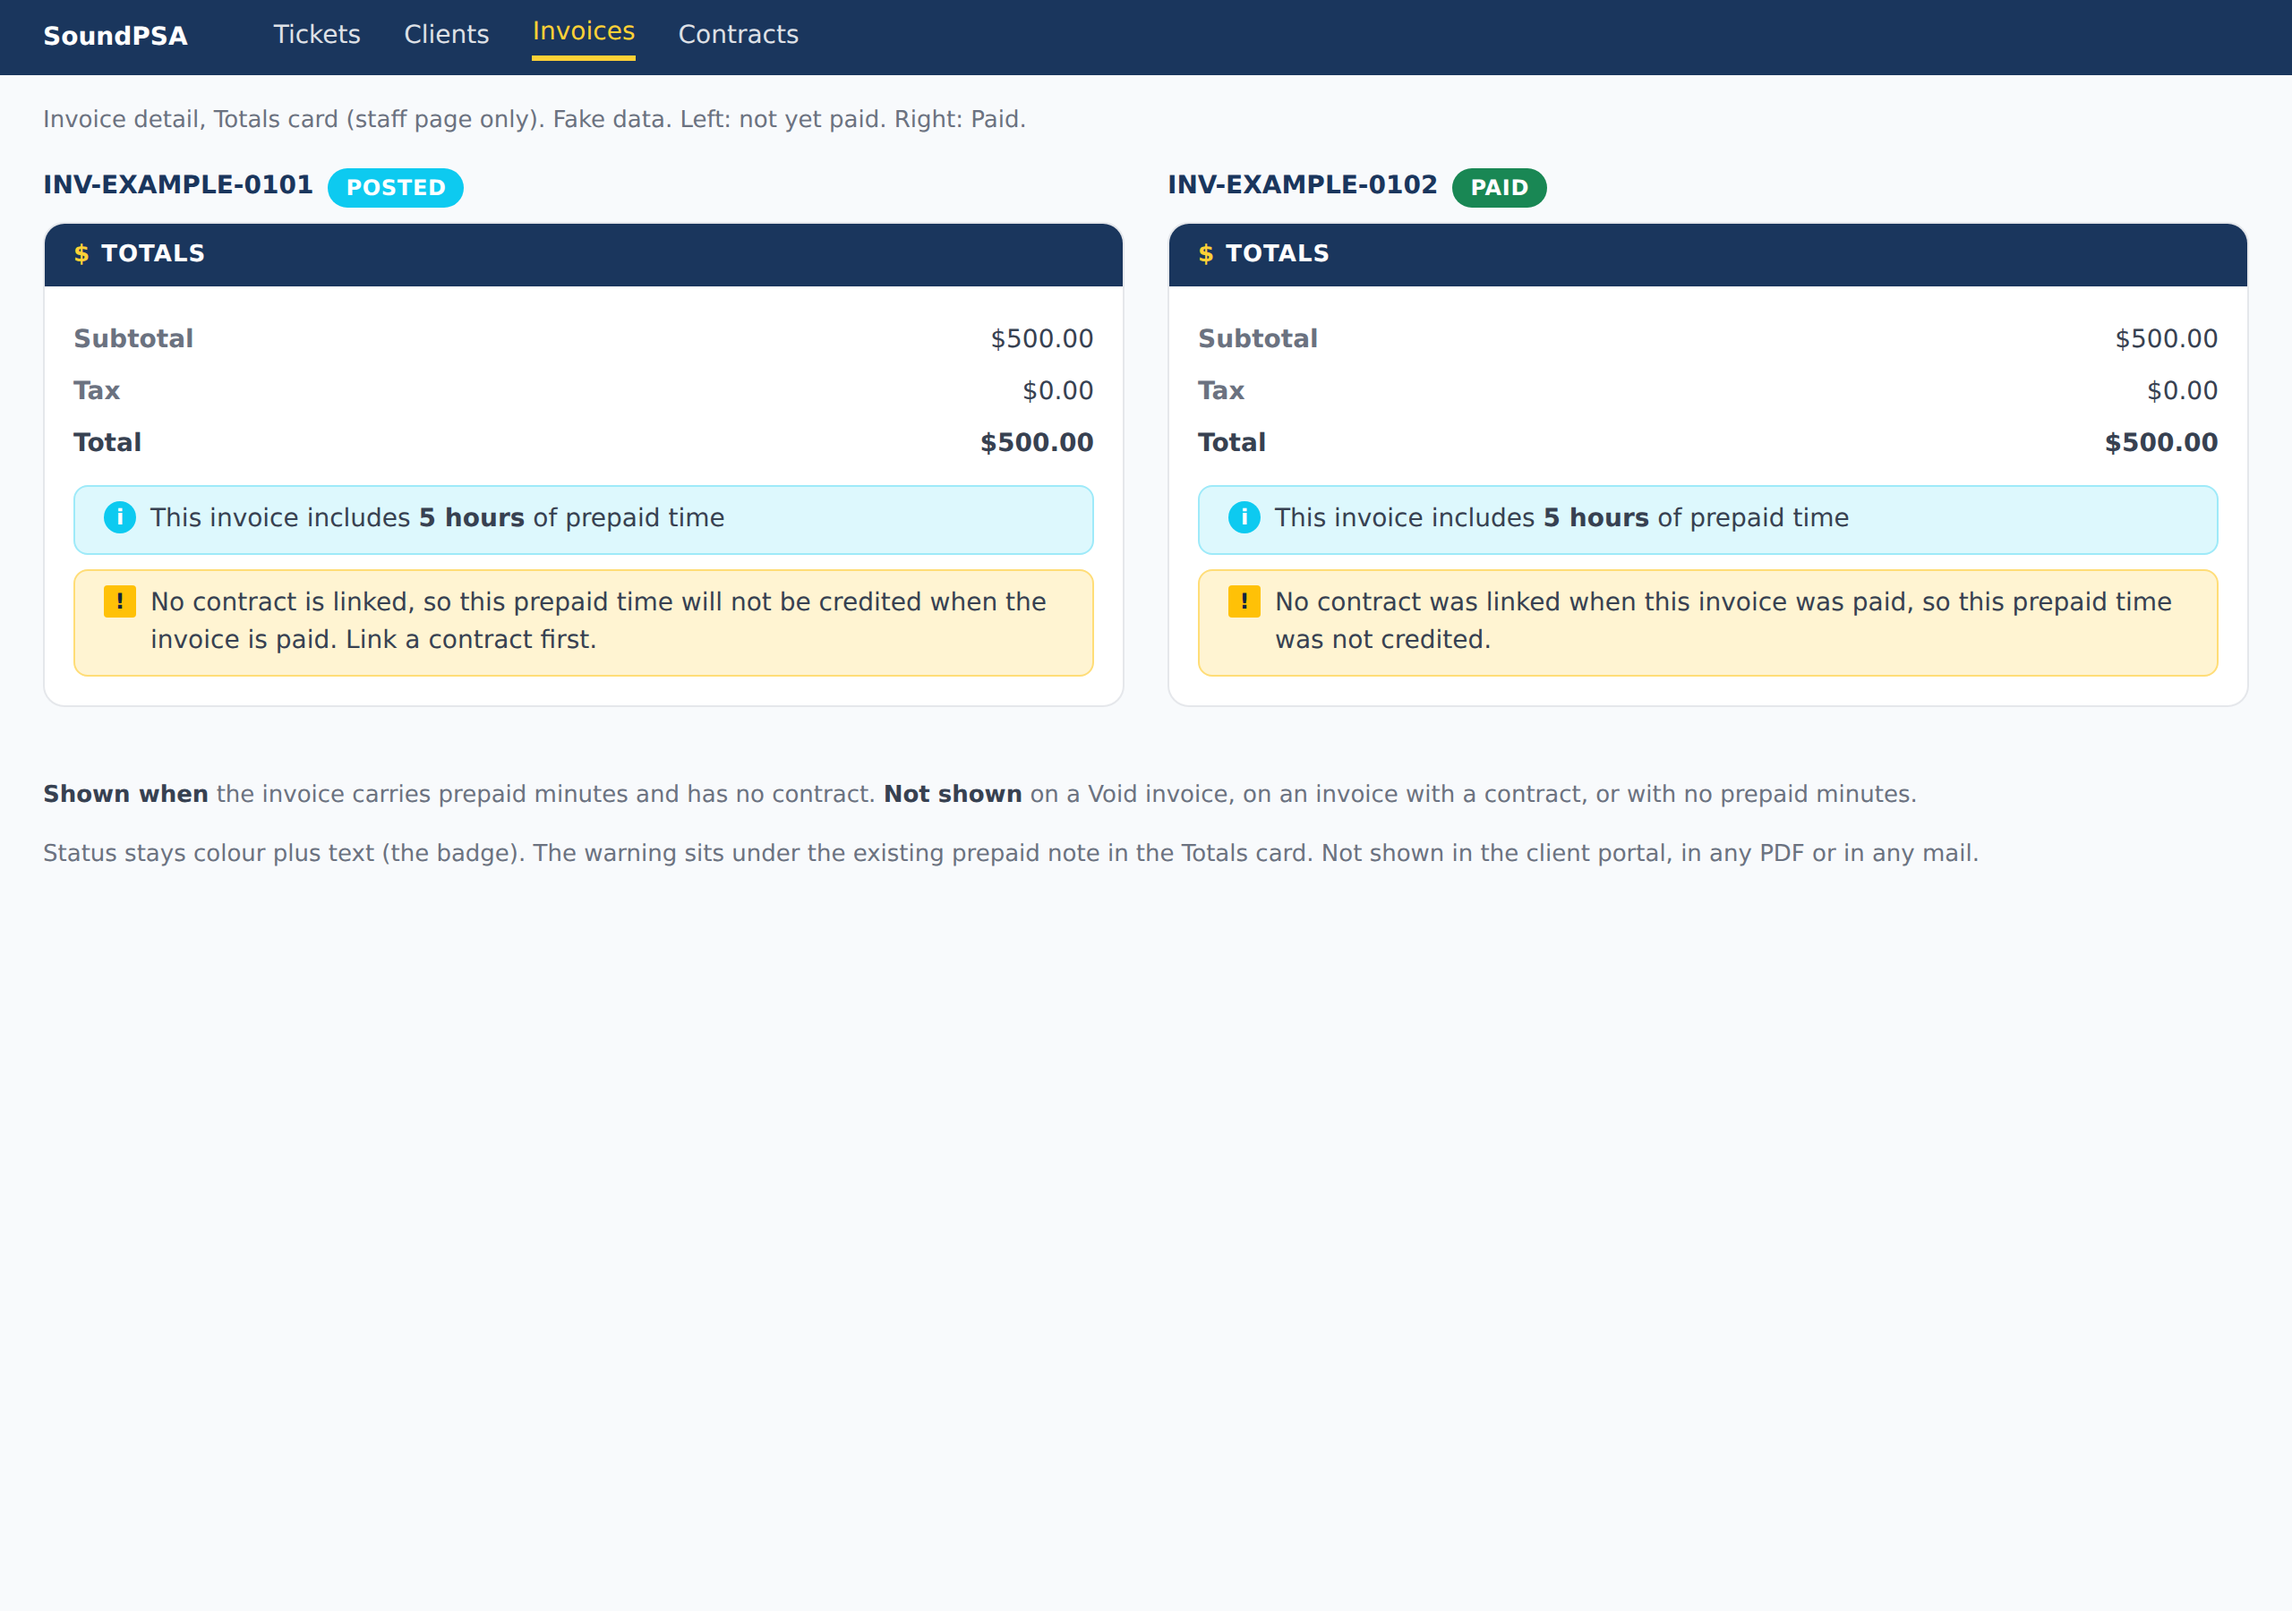
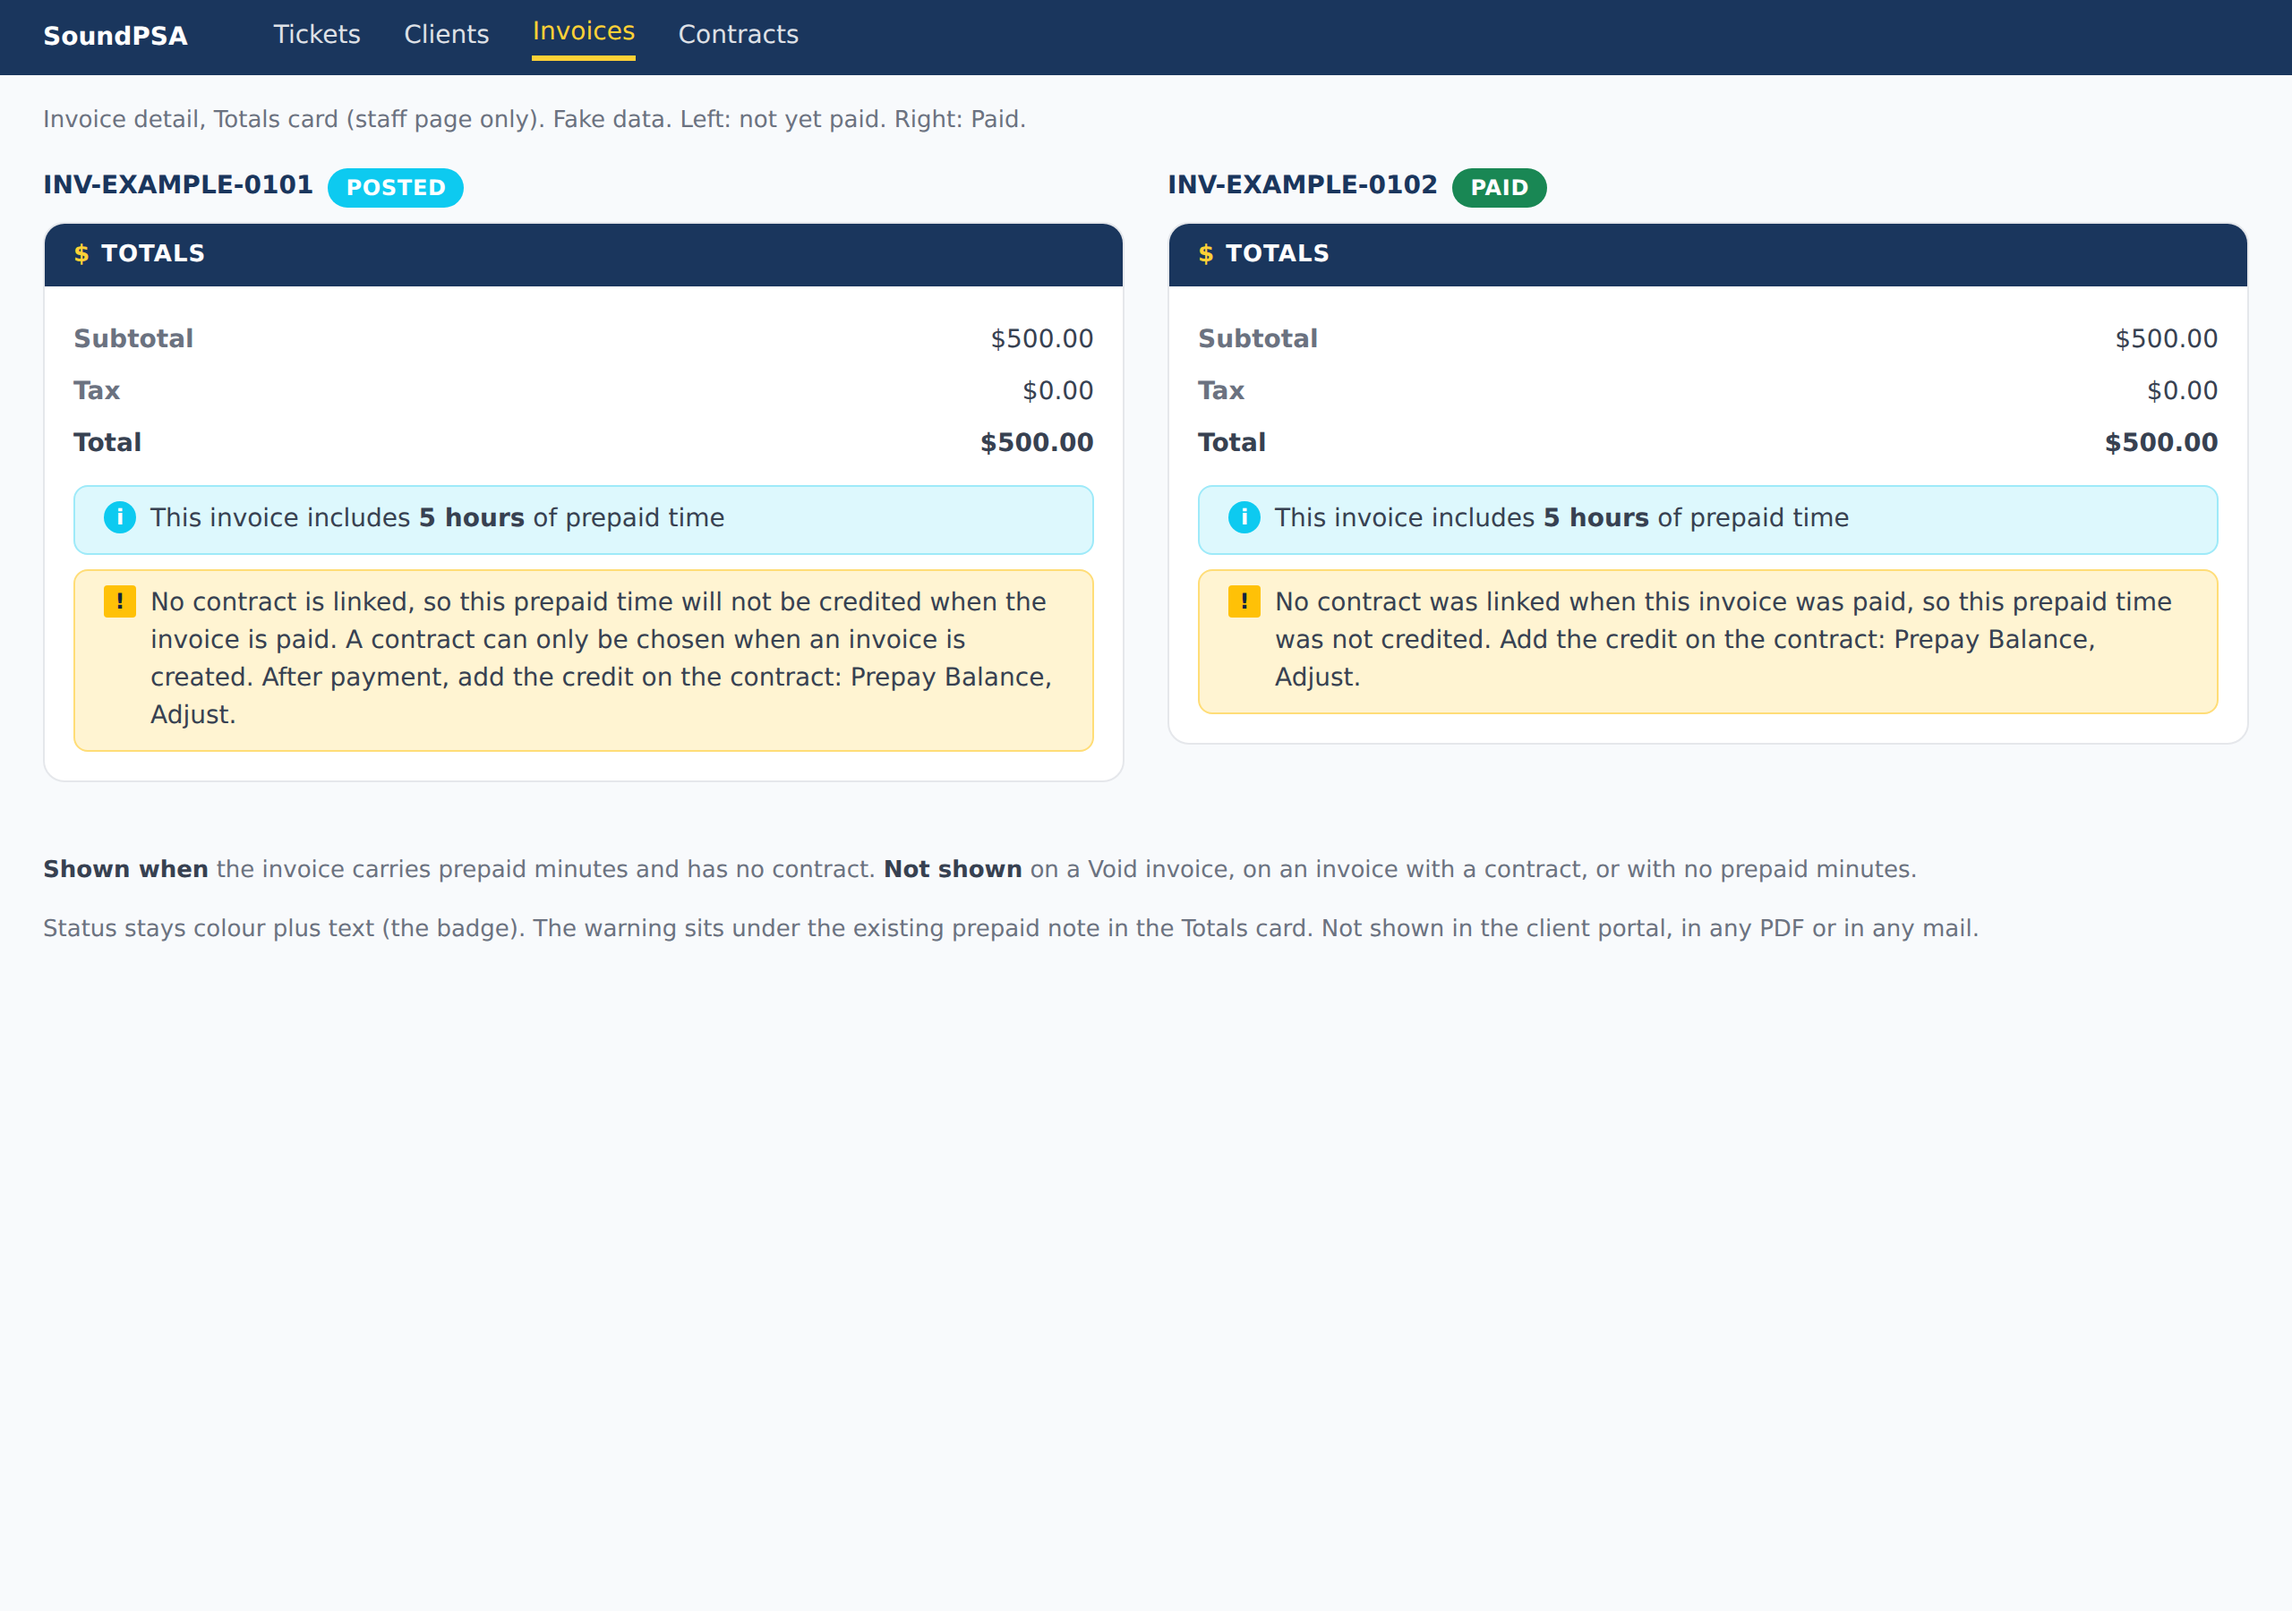
Warning wording per Jeeves 13:55Z (card comment 6b01a2eb): name where a contract can be chosen and where to add the credit (#8527)
Claim-Seat: forge-vm102-resident

Changed region(s): [[0.0312, 0.3733, 0.9688, 0.4978], [0.0, 0.5289, 0.8438, 0.5911]]

diff --git a/design/mockups/invoices/invoice-prepaid-no-contract.html b/design/mockups/invoices/invoice-prepaid-no-contract.html
@@ -47,7 +47,7 @@ tr.total th, tr.total td { color: var(--psa-colors-ink); font-weight: 700; }
           <tr class="total"><th>Total</th><td>$500.00</td></tr>
         </table>
         <div class="alert alert-info"><span class="ico ico-info">i</span><span>This invoice includes <strong>5 hours</strong> of prepaid time</span></div>
-        <div class="alert alert-warning" role="alert"><span class="ico ico-warn">!</span><span>No contract is linked, so this prepaid time will not be credited when the invoice is paid. Link a contract first.</span></div>
+        <div class="alert alert-warning" role="alert"><span class="ico ico-warn">!</span><span>No contract is linked, so this prepaid time will not be credited when the invoice is paid. A contract can only be chosen when an invoice is created. After payment, add the credit on the contract: Prepay Balance, Adjust.</span></div>
       </div>
     </div>
   </section>
@@ -62,7 +62,7 @@ tr.total th, tr.total td { color: var(--psa-colors-ink); font-weight: 700; }
           <tr class="total"><th>Total</th><td>$500.00</td></tr>
         </table>
         <div class="alert alert-info"><span class="ico ico-info">i</span><span>This invoice includes <strong>5 hours</strong> of prepaid time</span></div>
-        <div class="alert alert-warning" role="alert"><span class="ico ico-warn">!</span><span>No contract was linked when this invoice was paid, so this prepaid time was not credited.</span></div>
+        <div class="alert alert-warning" role="alert"><span class="ico ico-warn">!</span><span>No contract was linked when this invoice was paid, so this prepaid time was not credited. Add the credit on the contract: Prepay Balance, Adjust.</span></div>
       </div>
     </div>
   </section>

diff --git a/resources/views/invoices/show.blade.php b/resources/views/invoices/show.blade.php
@@ -360,9 +360,9 @@
                         <div class="alert alert-warning py-2 mt-2 mb-0" role="alert" data-prepaid-no-contract>
                             <i class="bi bi-exclamation-triangle-fill me-1" aria-hidden="true"></i>
                             @if($invoice->status === \App\Enums\InvoiceStatus::Paid)
-                                No contract was linked when this invoice was paid, so this prepaid time was not credited.
+                                No contract was linked when this invoice was paid, so this prepaid time was not credited. Add the credit on the contract: Prepay Balance, Adjust.
                             @else
-                                No contract is linked, so this prepaid time will not be credited when the invoice is paid. Link a contract first.
+                                No contract is linked, so this prepaid time will not be credited when the invoice is paid. A contract can only be chosen when an invoice is created. After payment, add the credit on the contract: Prepay Balance, Adjust.
                             @endif
                         </div>
                     @endif

diff --git a/tests/Feature/Invoices/PrepaidNoContractWarningTest.php b/tests/Feature/Invoices/PrepaidNoContractWarningTest.php
@@ -29,9 +29,9 @@ class PrepaidNoContractWarningTest extends TestCase
 {
     use RefreshDatabase;
 
-    private const UNPAID = 'No contract is linked, so this prepaid time will not be credited when the invoice is paid. Link a contract first.';
+    private const UNPAID = 'No contract is linked, so this prepaid time will not be credited when the invoice is paid. A contract can only be chosen when an invoice is created. After payment, add the credit on the contract: Prepay Balance, Adjust.';
 
-    private const PAID = 'No contract was linked when this invoice was paid, so this prepaid time was not credited.';
+    private const PAID = 'No contract was linked when this invoice was paid, so this prepaid time was not credited. Add the credit on the contract: Prepay Balance, Adjust.';
 
     private const LOG_MESSAGE = '[Prepay] Paid invoice carries prepaid minutes but has no contract; no deposit posted';
 
